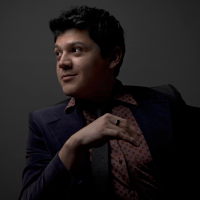
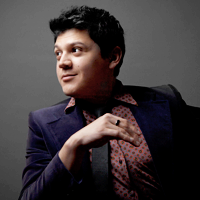
team photos updated

diff --git a/base-landing.php b/base-landing.php
@@ -292,7 +292,7 @@ get_template_part('templates/header','front-page');
                 <div class="row">
                     <div class="col-lg-2 col-md-2">
                         <br>
-                        <img src="<?php echo get_stylesheet_directory_uri() ?>/assets/images/team/marco.png" alt="marco" class="img-responsive img-circle center-block" />
+                        <img src="<?php echo get_stylesheet_directory_uri() ?>/assets/images/team/marco.jpg" alt="marco" class="img-responsive img-circle center-block" />
                     </div>
                     <div class="col-lg-4 col-md-4 text-center">
                         <br>
@@ -313,6 +313,8 @@ get_template_part('templates/header','front-page');
         </div>
     </div>
 </section>
+<br>
+<br>
 <br>
 <br>
 <br>
